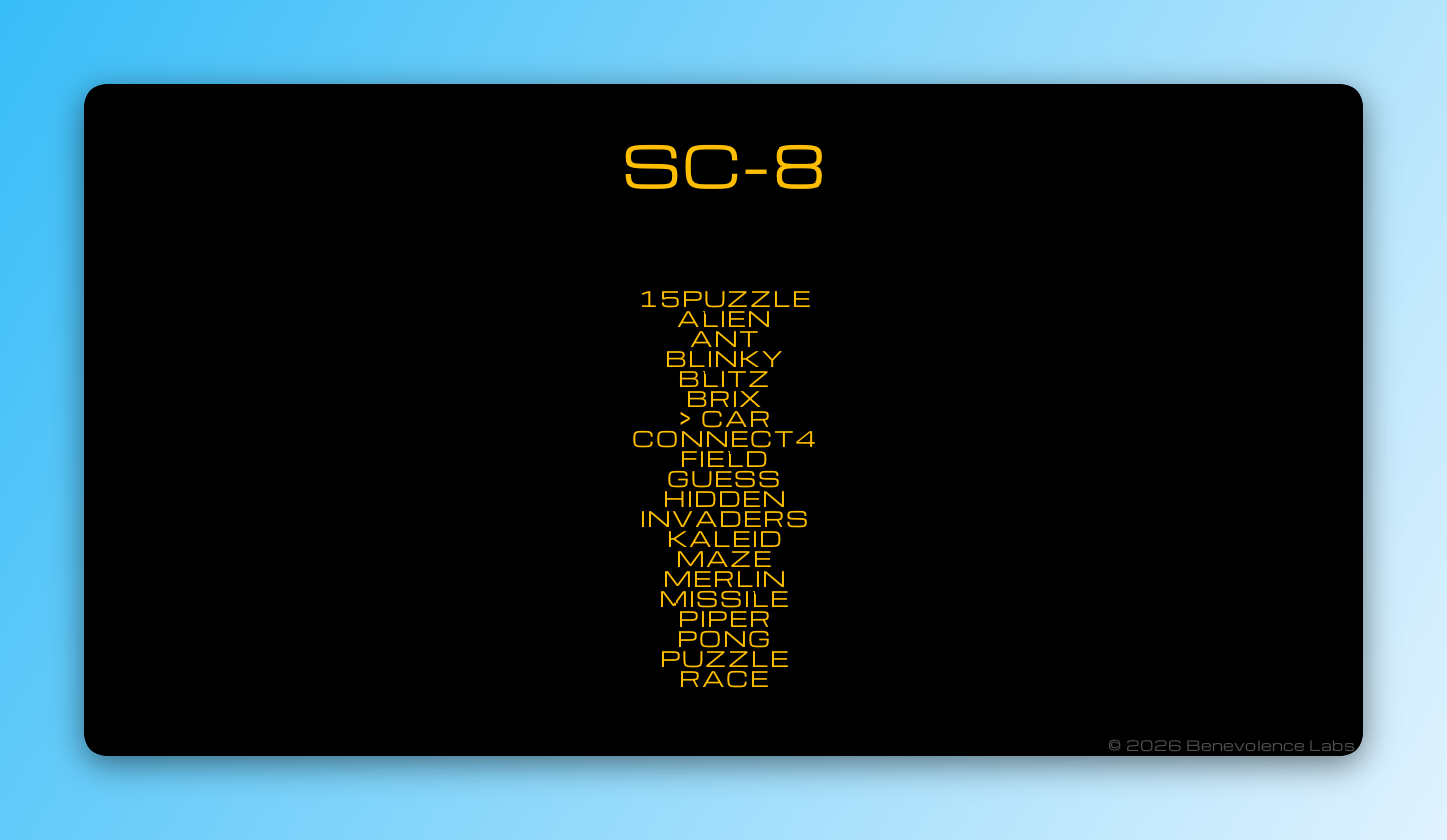
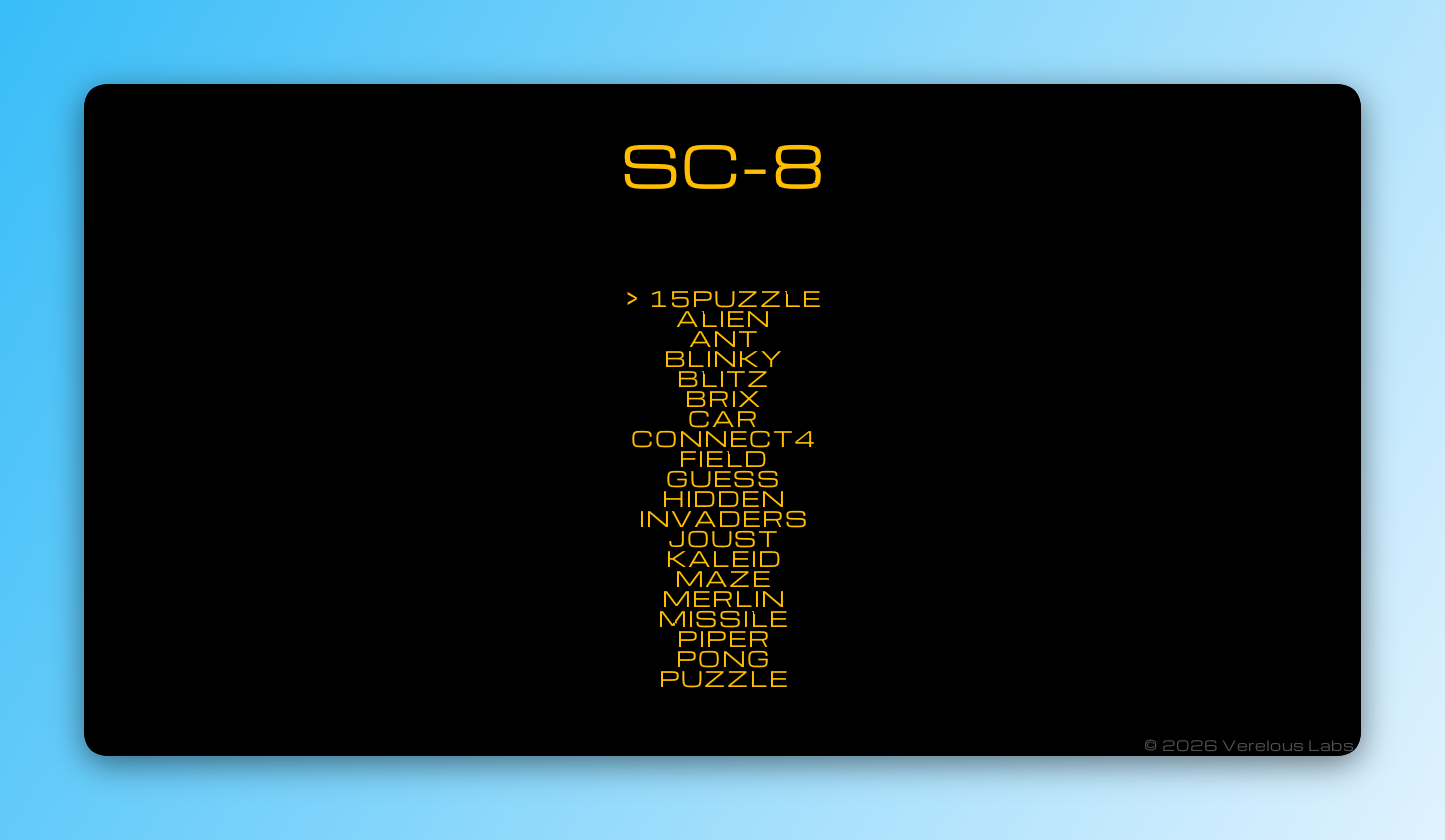
rebrand project and refresh documentation

diff --git a/src/display.c b/src/display.c
@@ -5,7 +5,7 @@
 #include <stdio.h>
 
 
-const char *footer = u8"© 2026 Benevolence Labs";
+const char *footer = u8"© 2026 Verelous Labs";
 char **roms = NULL; // rom names
 char **romPaths = NULL; // rom paths
 int romCount = 0; // no of elements = size of list / size of one element

diff --git a/README.md b/README.md
@@ -11,6 +11,7 @@ Skate is a Modern SUPER-CHIP emulator written in C, with backward compatability 
 ## Preview
 ![SC-8](assets/screenshots/screenshot1.png)
 ![SC-8](assets/screenshots/screenshot2.png)
+![SC-8](assets/screenshots/screenshot3.png)
 
 ## Features
 - Accurate CHIP-8 and Modern SUPER-CHIP emulation
@@ -56,12 +57,12 @@ Clone this repository to your local machine:
    make
    ```
 
-## Authors
-Developed by [9musa](https://github.com/9musa) under Benevolence Labs.
-
-## License
-This project is licensed under the MIT License - see the [LICENSE](LICENSE) file for details.
-
 ## Acknowledgements
 - [Timendus' CHIP-8 Test Suite](https://github.com/Timendus/chip8-test-suite) for the compatibility test ROMs used for identifying subtle implementation bugs and ensuring accurate Modern SUPER-CHIP emulation.
 - [Gulrak's CHIP-8 Documentation](https://chip8kb.gulrak.net/) for the comprehensive knowledge of the CHIP-8 and its variants.
+
+## Authors
+Developed by [9musa](https://github.com/9musa) under Verelous Labs.
+
+## License
+This project is licensed under the MIT License - see the [LICENSE](LICENSE) file for details.